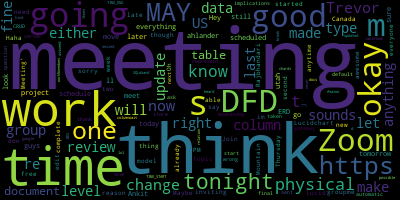
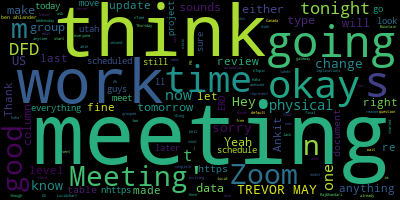
Changed to use a list comprehension instead although now there is some clunky conversion between data types

diff --git a/main/main.py b/main/main.py
@@ -10,11 +10,8 @@ r = requests.get(url, params=params)
 
 json_data = r.json()
 
-conversationText = ''
+conversationText = [str(item['text']) for item in json_data['response']['messages']]
 
-for item in json_data['response']['messages']:
-    conversationText += str(item['text'])
-
-wordCloud = WordCloud().generate(conversationText)
+wordCloud = WordCloud().generate(str(conversationText))
 
 wordCloud.to_file("img/firstCloud.png")
